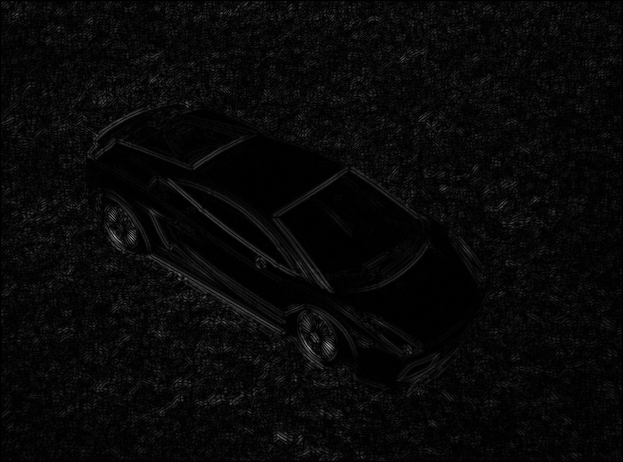
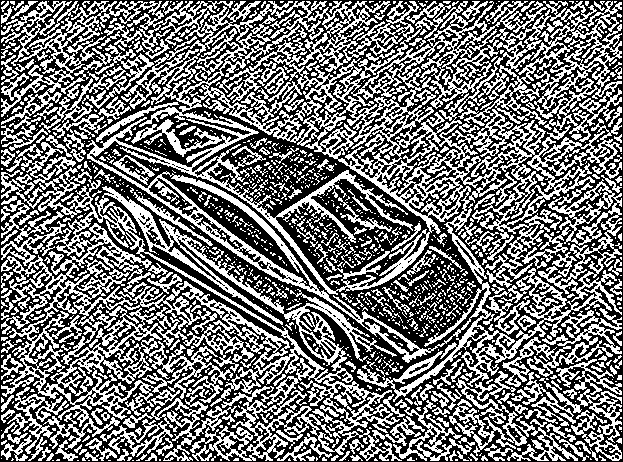
Update lambo_sobel on assignment_3

diff --git a/assignment_3/main.py b/assignment_3/main.py
@@ -54,12 +54,11 @@ def save_img(img: np.ndarray, name: str) -> Path:
 
 def sobel_edge_detection(image: np.ndarray) -> np.ndarray:
 
-    blurred = cv2.GaussianBlur(image, (3, 3), 0)
+    gray = cv2.cvtColor(image, cv2.COLOR_BGR2GRAY)
+    blurred = cv2.GaussianBlur(gray, (3, 3), 0, cv2.BORDER_DEFAULT)
     gray = cv2.cvtColor(blurred, cv2.COLOR_BGR2GRAY) if blurred.ndim == 3 else blurred
-    sobel_64f = cv2.Sobel(gray, ddepth=cv2.CV_64F, dx=1, dy=1, ksize=1)
-    sobel_abs = np.absolute(sobel_64f)
-    sobel_u8 = np.uint8(np.clip(sobel_abs, 0, 255))
-    return sobel_u8
+    sobel_64f = 255 * cv2.Sobel(gray, ddepth=cv2.CV_64F, dx=1, dy=1, ksize=1)
+    return sobel_64f
 
 
 def canny_edge_detection(image: np.ndarray, threshold_1: int = 50, threshold_2: int = 50) -> np.ndarray:
